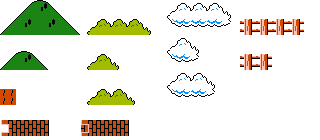
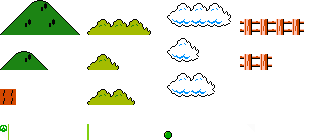
dascdsccsx

Changed region(s): [[0.25, 0.8571, 0.4062, 1.0], [0.0, 0.8571, 0.1562, 0.9714], [0.5, 0.9429, 0.5625, 1.0]]

diff --git a/main.cpp b/main.cpp
@@ -195,15 +195,15 @@ struct Levels {
 	"                                                                                                                                                                                                                                                                                               ",
 	"                                                                                                                                                                                                                                                                                               ",
 	"                                                                                                                                                                                                                                                                                               ",
-	"                                                                                                                                                                                                        r                                                                                      ",
-	"                                                                                                                                                                                                       nf                                                                                      ",
-	"                       o                                                          ________   ___o              o           ___    _oo_                                                        OO        l                                                                                      ",
-	"                                                                                                                                                                                             OOO        l                                                                                      ",
-	"                                                                                                                                                                                            OOOO        l                                                                                      ",
-	"                                                                                                                                                                                           OOOOO        l                                                                                      ",
-	"                 o   _o_o_                     tk         tk                   _o_              _     __    o  o  o     _          __      O  O          OO  O            __o_            OOOOOO        l                                                                                      ",
-	"                                       tk      |h         |h                                                                              OO  OO        OOO  OO                          OOOOOOO        l                                                                                      ",
-	"                             tk        |h      |h         |h                                                                             OOO  OOO      OOOO  OOO     tk              tk OOOOOOOO        l              tk                                                                      ",
+	"                                                                                                                                                                                                                                                                                               ",
+	"                                                                                                                                                                                                                                                                                               ",
+	"                       o                                                          ________   ___o              o           ___    _oo_                                                        OO                                                                                               ",
+	"                                                                                                                                                                                             OOO                                                                                               ",
+	"                                                                                                                                                                                            OOOO                                                                                               ",
+	"                                                                                                                                                                                           OOOOO                                                                                               ",
+	"                 o   _o_o_                     tk         tk                   _o_              _     __    o  o  o     _          __      O  O          OO  O            __o_            OOOOOO                                                                                               ",
+	"                                       tk      |h         |h                                                                              OO  OO        OOO  OO                          OOOOOOO                                                                                               ",
+	"                             tk        |h      |h         |h                                                                             OOO  OOO      OOOO  OOO     tk              tk OOOOOOOO                       tk                                                                      ",
 	"                             |h        |h      |h         |h                                                                            OOOO  OOOO    OOOOO  OOOO    |h              |hOOOOOOOOO        O              |h                                                                      ",
 	"%%%%%%%%%%%%%%%%%%%%%%%%%%%%%%%%%%%%%%%%%%%%%%%%%%%%%%%%%%%%%%%%%%%%%%   %%%%%%%%%%%%%%%   %%%%%%%%%%%%%%%%%%%%%%%%%%%%%%%%%%%%%%%%%%%%%%%%%%%%%%%%%%%%%%%%  %%%%%%%%%%%%%%%%%%%%%%%%%%%%%%%%%%%%%%%%%%%%%%%%%%%%%%%%%%%%%%%%%%%%%%%%%%%%%%%%%%%%%%%%%%%%%%%%%%%%%%%%%%%%%%%%%%%%%%%%%%%%%%%%%%",
 	"%%%%%%%%%%%%%%%%%%%%%%%%%%%%%%%%%%%%%%%%%%%%%%%%%%%%%%%%%%%%%%%%%%%%%%   %%%%%%%%%%%%%%%   %%%%%%%%%%%%%%%%%%%%%%%%%%%%%%%%%%%%%%%%%%%%%%%%%%%%%%%%%%%%%%%%  %%%%%%%%%%%%%%%%%%%%%%%%%%%%%%%%%%%%%%%%%%%%%%%%%%%%%%%%%%%%%%%%%%%%%%%%%%%%%%%%%%%%%%%%%%%%%%%%%%%%%%%%%%%%%%%%%%%%%%%%%%%%%%%%%%",
@@ -228,15 +228,15 @@ struct Levels {
 	"                                                                                                                                                                                                                                                                                               ",
 	"                                                                                                                                                                                                                                                                                               ",
 	"                    7               0                               7                 0                              7                0                              7            0                                                                                                            ",
-	"                             3                           7                   3                            7                  3                            7                  3                            7                                                                                    ",
-	"                                                                                 G                                                                                                                                                                                                             ",
-	"                                                                                                               w                                                                                                                                                                               ",
-	"                                                                                                                                                                                                                                                                                               ",
-	"                                                                                                                                                                                                                                                                                               ",
-	"                                                                                                                                                                                                             ,.m                                                                               ",
-	"                      w                                                         w                                                                                                                                                                                                              ",
-	"                                                                                                                                                                                                                                                                                               ",
-	"                                                                                                                                                                                                            xcvcx                                                                              ",
+	"                             3                           7                   3                            7                  3                            7                  3                          j 7                                                                                    ",
+	"                                                                                 G                                                                                                                     ki                                                                                      ",
+	"                                                                                                               w                                                                                        o                                                                                      ",
+	"                                                                                                                                                                                                        o                                                                                      ",
+	"                                                                                                                                                                                                        o                                                                                      ",
+	"                                                                                                                                                                                                        o    ,.m                                                                               ",
+	"                      w                                                         w                                                                                                                       o                                                                                      ",
+	"                                                                                                                                                                                                        o                                                                                      ",
+	"                                                                                                                                                                                                        o   xcvcx                                                                              ",
 	" 1          2    5     G6                G 9      1  G G     2    5       6                 9     1G G      K2    5 G G  6   G G  G G       9      1            6  5      6     G G                1     O                                                                                     ",
 	"                                                                                                                                                                                                                                                                                               ",
 	"                                                                                                                                                                                                                                                                                               ",
@@ -685,6 +685,30 @@ void outputLevel()
 			{
 				a = 0;
 				b = 2;
+				c = 0;
+			}
+			else if (level.currentScene[i][j] == 'i')
+			{
+				a = 0;
+				b = 3;
+				c = 0;
+			}
+			else if (level.currentScene[i][j] == 'o')
+			{
+				a = 1;
+				b = 3;
+				c = 0;
+			}
+			else if (level.currentScene[i][j] == 'j')
+			{
+				a = 2;
+				b = 3;
+				c = 0;
+			}
+			else if (level.currentScene[i][j] == 'k')
+			{
+				a = 3;
+				b = 3;
 				c = 0;
 			}
 			else if (level.currentScene[i][j] == 'x')
@@ -1227,7 +1251,7 @@ int main()
 					}
 
 					//right
-					if (level.current[mob[i].iPosY][mob[i].iPosX] != ' ' || (level.current[mob[i].iPosY - 1][mob[i].iPosX] != ' ' && mob[i].mob == 3))
+					if (level.current[mob[i].iPosY][mob[i].iPosX] != ' ' || (level.current[mob[i].iPosY - 1][mob[i].iPosX] != ' ' && mob[i].mob == 3 && !mob[i].moving))
 					{
 						mob[i].direction = true;
 					}
@@ -1243,7 +1267,7 @@ int main()
 					}
 					else
 					{
-						if (level.current[mob[i].iPosY][mob[i].iPosX - 1] != ' ' || (level.current[mob[i].iPosY - 1][mob[i].iPosX - 1] != ' ' && mob[i].mob == 3))
+						if (level.current[mob[i].iPosY][mob[i].iPosX - 1] != ' ' || (level.current[mob[i].iPosY - 1][mob[i].iPosX - 1] != ' ' && mob[i].mob == 3 && !mob[i].moving))
 						{
 							mob[i].direction = false;
 						}
